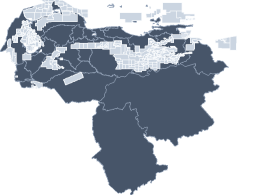
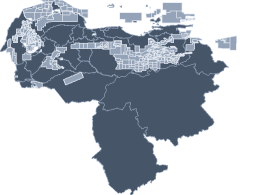
Mapa: colores de la Faja, leyenda propia y el borde negro siempre visible
Ajustes de la capa petrolera pedidos por el cliente, mas los arreglos que
salieron al revisarla.

COLORES

  - las 4 divisiones en tonos oscuros: Boyaca verde, Junin AZUL (antes ambar),
    Ayacucho morado y Carabobo NEGRO (antes rojo, que sobre el verde del
    satelite tiraba a naranja). El azul de Junin no es el de las velas
  - contorno de las divisiones en NEGRO punteado, igual en las cuatro
  - bloques mas oscuros (#1e293b al 40%), con el borde claro: con el relleno
    oscuro esa linea es lo unico que separa un bloque del de al lado

LEYENDA Y ROTULOS

  - fuera los rotulos fijos sobre el mapa (tapaban demasiado). Con ellos se van
    .faja-etq, la clase .mapa-faja-lejos y su umbral de 200 km, que existian
    solo para que no estorbaran
  - la leyenda gana un bloque "Faja Petrolifera del Orinoco" con el cuadrito de
    color de cada division; aparece y desaparece con la capa, y sale igual en la
    foto exportada y en el PNG de la leyenda sola
  - al pasar el mouse, el tooltip del estado dice ademas "Faja - Area Junin"
    cuando el cursor cae dentro de una division. Se recalcula en mousemove: un
    estado puede cruzar dos divisiones o entrar y salir de la Faja sin cambiar

ARREGLOS

  - el borde negro se partia donde pasaba una carretera del mapa base: las
    etiquetas de Google van en labelsPane (466) y la Faja estaba en el 458.
    Ahora el CONTORNO va aparte, en fajaBordePane (467), por encima de ellas; el
[…]

diff --git a/public/js/maquinaria/mapa_index.js b/public/js/maquinaria/mapa_index.js
@@ -252,11 +252,22 @@
         map.createPane('muniNumPane');
         map.getPane('muniNumPane').style.zIndex = 463;
 
-        // Pane de la CAPA PETROLERA (Faja + bloques): encima del satélite y de los estados
-        // (400), y DEBAJO de los municipios (462) y de la tubería (465), que son la información
-        // propia de la empresa y deben quedar siempre legibles.
+        // Panes de la CAPA PETROLERA: encima del satélite y de los estados (400), y DEBAJO de los
+        // municipios (462) y de la tubería (465), que son la información propia de la empresa y
+        // deben quedar siempre legibles.
+        // Son DOS panes para que el orden NO dependa de en qué orden se enciendan las capas: las
+        // áreas de la Faja son el fondo y los bloques van siempre encima.
         map.createPane('fajaPane');
         map.getPane('fajaPane').style.zIndex = 458;
+        map.createPane('bloquesPane');
+        map.getPane('bloquesPane').style.zIndex = 459;
+        // El CONTORNO de las divisiones de la Faja va aparte y MÁS ALTO que las etiquetas de
+        // Google (labelsPane, 466): una carretera pintada encima del borde lo partía y dejaba
+        // trozos sin línea. El relleno se queda abajo (fajaPane) para no tapar los nombres.
+        // Sin eventos: el hover/clic derecho lo siguen recibiendo los bloques de debajo.
+        map.createPane('fajaBordePane');
+        map.getPane('fajaBordePane').style.zIndex = 467;
+        map.getPane('fajaBordePane').style.pointerEvents = 'none';
 
         // Pane propio para la TUBERÍA, POR ENCIMA de los estados (overlayPane, z 400) y de los
         // municipios (muniIntPane, z 462). Esos polígonos hacían bringToFront() al pasar el mouse
@@ -724,9 +735,18 @@
             onEachFeature: function (feature, layer) {
                 var nombre = (feature.properties && feature.properties.shapeName) || 'Estado';
                 layer.bindTooltip(nombre, { sticky: true, direction: 'top', className: 'estado-tooltip' });
+                // Con la Faja encendida el tooltip dice ADEMÁS en qué división está el cursor.
+                // Se recalcula al mover el ratón (no al entrar) porque un estado puede cruzar
+                // dos divisiones — o entrar y salir de la Faja sin cambiar de estado.
+                var ponerTexto = function (e) {
+                    var div = divisionFajaEnPunto(e.latlng);
+                    e.target.setTooltipContent(esc(nombre) +
+                        (div ? '<br><span style="opacity:.85;">Faja · Área ' + esc(div) + '</span>' : ''));
+                };
                 layer.on({
                     // No tocar el estilo si el estado está FIJADO (clic derecho).
-                    mouseover: function (e) { if (!estadosFijados.has(e.target)) e.target.setStyle(estiloEstadoHover); e.target.bringToFront(); },
+                    mouseover: function (e) { if (!estadosFijados.has(e.target)) e.target.setStyle(estiloEstadoHover); e.target.bringToFront(); ponerTexto(e); },
+                    mousemove: ponerTexto,
                     mouseout:  function (e) { if (!estadosFijados.has(e.target)) estados.resetStyle(e.target); },
                     contextmenu: function (e) { menuEstado(e, e.target, nombre); }
                 });
@@ -866,17 +886,41 @@
         // (carga perezosa, igual que los municipios).
         var fajaPoligonalUrl = el.getAttribute('data-faja-poligonal');
         var fajaBloquesUrl   = el.getAttribute('data-faja-bloques');
-        // Un color por DIVISIÓN de la Faja (de oeste a este). Ninguno es azul: ese es el color de
-        // los frentes/velas y se confundirían.
-        var COLOR_AREA_FAJA = { 'BOYACA': '#22c55e', 'JUNIN': '#f59e0b', 'AYACUCHO': '#a855f7', 'CARABOBO': '#ef4444' };
-        function colorAreaFaja(nombre) { return COLOR_AREA_FAJA[normEstado(nombre)] || '#fb923c'; }
-        // Escala (km de la regla) a partir de la cual el rótulo del área se ve desproporcionado
-        // y se encoge por CSS (.mapa-faja-lejos). Lo aplica declutterVelas, con la vista ya asentada.
-        var FAJA_ETQ_LEJOS_KM = 200;
+        // Las 4 divisiones de la Faja, de oeste a este: color (en tonos OSCUROS, para que se lean
+        // sobre el satélite) y nombre con acentos (el geojson los trae sin ellos). Este mismo
+        // orden es el de la leyenda. A pedido del cliente: Junín en azul (antes ámbar) — distinto
+        // al de las velas (#0067b1) para no confundirlos — y Carabobo en negro (antes rojo, que
+        // sobre el verde del satélite tiraba a naranja).
+        // OJO: los mismos colores están en generar_miniaturas_mapa.php (la miniatura del botón).
+        var AREAS_FAJA = [
+            { clave: 'BOYACA',   nombre: 'Boyacá',   color: '#15803d' },
+            { clave: 'JUNIN',    nombre: 'Junín',    color: '#1d4ed8' },
+            { clave: 'AYACUCHO', nombre: 'Ayacucho', color: '#a21caf' },
+            { clave: 'CARABOBO', nombre: 'Carabobo', color: '#000000' }
+        ];
+        var _areaFaja = {};
+        AREAS_FAJA.forEach(function (a) { _areaFaja[a.clave] = a; });
+        function colorAreaFaja(nombre) { var a = _areaFaja[normEstado(nombre)]; return a ? a.color : '#c2410c'; }
+        function nombreAreaFaja(nombre) { var a = _areaFaja[normEstado(nombre)]; return a ? a.nombre : nombreBonito(nombre); }
+        // Divisiones que van en la leyenda: solo cuando la capa está encendida. La comprobación
+        // de capaFaja es por orden: esto se declara ANTES que la capa y la leyenda podría
+        // dibujarse primero.
+        function areasFajaVisibles() { return (capaFaja && capaFaja.on) ? AREAS_FAJA : []; }
+        // Borde NEGRO en las divisiones de la Faja: el relleno ya dice cuál es cada área y así el
+        // contorno se distingue del de los bloques (que va en gris claro). El MISMO trazo lo usan
+        // las dos capas de la Faja: la del relleno y la copia solo-contorno de fajaBordePane.
+        var COLOR_BORDE_FAJA = '#000000';
+        function trazoFaja(extra) {
+            var t = { color: COLOR_BORDE_FAJA, weight: 2, opacity: 0.95, dashArray: '7 5', fill: false };
+            for (var k in extra) t[k] = extra[k];
+            return t;
+        }
         // Bloques en GRIS a propósito: son cientos y en color tapaban el mapa. El color queda para
         // la Faja (4 áreas) y para los municipios.
-        var estiloBloque      = { color: '#e2e8f0', weight: 0.9, opacity: 0.85, fill: true, fillColor: '#64748b', fillOpacity: 0.16 };
-        var estiloBloqueHover = { color: '#ffffff', weight: 2.2, fillOpacity: 0.38 };
+        // El borde se queda CLARO a propósito: con el relleno oscuro es lo único que separa un
+        // bloque del de al lado. La foto lee estos mismos valores de la capa (ver dibujarFaja).
+        var estiloBloque      = { color: '#cbd5e1', weight: 0.9, opacity: 0.85, fill: true, fillColor: '#1e293b', fillOpacity: 0.4 };
+        var estiloBloqueHover = { color: '#ffffff', weight: 2.2, fillOpacity: 0.6 };
 
         // Ficha del bloque al pasar el mouse: nombre, área de la Faja/zona, empresa y superficie.
         // 116 de los 336 bloques (los del Lago y Costa Afuera) vienen SIN nombre propio en la
@@ -925,10 +969,11 @@
             };
             est.alternar = function () {
                 est.on = !est.on;
-                est.sincronizar(); // responde al instante, aunque el geojson aún se esté bajando
+                est.sincronizar();   // responde al instante, aunque el geojson aún se esté bajando
+                actualizarLeyenda(); // la Faja pone/quita su bloque de colores en la leyenda
                 if (!est.on) { if (est.capa) map.removeLayer(est.capa); return; }
                 est.cargar().then(function (ok) {
-                    if (!ok) { est.on = false; est.sincronizar(); return; }
+                    if (!ok) { est.on = false; est.sincronizar(); actualizarLeyenda(); return; }
                     if (est.on) est.capa.addTo(map); // si la apagó mientras cargaba, no se pinta
                 });
             };
@@ -939,26 +984,28 @@
         // interactivas a propósito: son fondo de referencia y, si recibieran el ratón, se
         // comerían el clic derecho (coordenada) y el hover de los bloques que van encima.
         var capaFaja = capaPetrolera(fajaPoligonalUrl, function (gj) {
-            return L.geoJSON(gj, {
+            // Sin rótulos fijos encima del mapa (tapaban demasiado): qué área es cada color lo
+            // dice la LEYENDA, y al pasar el mouse el nombre sale junto al del estado.
+            var relleno = L.geoJSON(gj, {
                 pane: 'fajaPane',
                 interactive: false,
                 style: function (f) {
-                    var c = colorAreaFaja(f && f.properties && f.properties.nombre);
-                    return { color: c, weight: 2, opacity: 0.95, dashArray: '7 5', fill: true, fillColor: c, fillOpacity: 0.16 };
-                },
-                onEachFeature: function (f, layer) {
-                    var p = f.properties || {}, c = colorAreaFaja(p.nombre);
-                    // Rótulo FIJO (solo son 4): sin él no se sabe cuál área es cada color.
-                    layer.bindTooltip('<span style="color:' + c + '">' + esc(nombreBonito(p.nombre || '')) + '</span>',
-                        { permanent: true, direction: 'center', className: 'estado-tooltip faja-etq' });
+                    return trazoFaja({ fill: true, fillColor: colorAreaFaja(f && f.properties && f.properties.nombre), fillOpacity: 0.28 });
                 }
             });
+            // Copia SOLO-CONTORNO en fajaBordePane: es la que garantiza que la línea negra se vea
+            // siempre, aunque encima pase una carretera o un nombre del mapa base. La de abajo
+            // también lo trae para que la FOTO salga igual con una sola pasada (ver dibujarFaja).
+            var borde = L.geoJSON(gj, { pane: 'fajaBordePane', interactive: false, style: function () { return trazoFaja(); } });
+            var grupo = L.layerGroup([relleno, borde]);
+            grupo.areas = relleno; // el "¿en qué división estoy?" mira solo esta (la del contorno es una copia)
+            return grupo;
         }, 'Ver la Faja Petrolífera del Orinoco (Boyacá, Junín, Ayacucho y Carabobo)', 'Ocultar la Faja Petrolífera');
 
         // Bloques petroleros de todo el país, en gris, con su ficha al pasar el mouse.
         var capaBloques = capaPetrolera(fajaBloquesUrl, function (gj) {
             var capa = L.geoJSON(gj, {
-                pane: 'fajaPane',
+                pane: 'bloquesPane',
                 style: function () { return estiloBloque; },
                 onEachFeature: function (f, layer) {
                     layer.bindTooltip(tooltipBloque(f.properties || {}), { sticky: true, direction: 'top', className: 'estado-tooltip' });
@@ -975,6 +1022,17 @@
             return capa;
         }, 'Ver los bloques petroleros', 'Ocultar los bloques petroleros');
 
+        // ¿En qué división de la Faja cae una coordenada? Devuelve su nombre bonito, o null si la
+        // capa está apagada o el punto queda fuera. Lo usa el tooltip del estado.
+        function divisionFajaEnPunto(ll) {
+            if (!capaFaja.on || !capaFaja.capa || !capaFaja.capa.areas) return null;
+            var res = null;
+            capaFaja.capa.areas.eachLayer(function (l) {
+                if (res || !l.getLatLngs || !l.getBounds().contains(ll)) return; // el bounds descarta rápido
+                if (puntoEnLatLngs(ll, l.getLatLngs())) res = l.feature && l.feature.properties && l.feature.properties.nombre;
+            });
+            return res ? nombreAreaFaja(res) : null;
+        }
         if (miniFajaUrl && fajaPoligonalUrl) map.addControl(new (controlMiniCapa(miniFajaUrl, 'Faja', capaFaja.alternar, capaFaja.montar))());
         if (miniBloquesUrl && fajaBloquesUrl) map.addControl(new (controlMiniCapa(miniBloquesUrl, 'Bloques', capaBloques.alternar, capaBloques.montar))());
 
@@ -1899,25 +1957,21 @@
             return fundirVelas(todas, thresh, ocultar);
         }
 
-        var declutterZoom = null, declutterLejos = null, declutterDetalle = null, declutterFajaLejos = null; // último estado, para no recalcular en paneo
+        var declutterZoom = null, declutterLejos = null, declutterDetalle = null; // último estado, para no recalcular en paneo
         function declutterVelas(force) {
             var z = map.getZoom();
             // A MÁS de 300 km (500 km…) el pin se encoge. El nombre del PUNTO es otro umbral
             // (DETALLE_KM): hasta 50 km sale, más lejos solo el proyecto. Ambos por ESCALA.
             var lejos = vistaLejana(), detalle = conDetalle();
-            // Tercer umbral, el de los rótulos de las áreas de la Faja (200 km): de ahí en adelante
-            // el chip tapa el área entera, así que se encoge ANTES que los pines.
-            var fajaLejos = escalaKm() >= FAJA_ETQ_LEJOS_KM;
             // En un PAN puro (mismo zoom y mismos umbrales) las distancias en px entre velas son
             // idénticas (coordenadas globales de Mercator): no hace falta re-agrupar ni re-enlazar
-            // todos los tooltips (evita flicker/jank). Se vigilan LOS TRES umbrales porque al
+            // todos los tooltips (evita flicker/jank). Se vigilan LOS DOS umbrales porque al
             // desplazarse en latitud la escala cambia sin cambiar el zoom. `force` re-ejecuta al
             // crear/recargar velas.
-            if (!force && z === declutterZoom && lejos === declutterLejos && detalle === declutterDetalle && fajaLejos === declutterFajaLejos) return;
-            declutterZoom = z; declutterLejos = lejos; declutterDetalle = detalle; declutterFajaLejos = fajaLejos;
+            if (!force && z === declutterZoom && lejos === declutterLejos && detalle === declutterDetalle) return;
+            declutterZoom = z; declutterLejos = lejos; declutterDetalle = detalle;
             // A más de 300 km el pin se ve exageradamente grande → se encoge por CSS (clase en el mapa).
             el.classList.toggle('mapa-velas-lejos', lejos);
-            el.classList.toggle('mapa-faja-lejos', fajaLejos);
             // Los pines/tuberías de un proyecto oculto se quitan del mapa; los visibles se
             // reponen. Los pines visibles los vuelve a añadir agruparVelas; las tuberías, aquí.
             Object.keys(oleoMap).forEach(function (id) {
@@ -2574,7 +2628,8 @@
             var d = document.getElementById('mapaLeyenda'); if (!d) return;
             var items = proyectosConPuntos();
             var munis = municipiosActivos();
-            if (!items.length && !munis.length) { d.style.display = 'none'; d.innerHTML = ''; return; }
+            var areas = areasFajaVisibles();
+            if (!items.length && !munis.length && !areas.length) { d.style.display = 'none'; d.innerHTML = ''; return; }
             d.style.display = 'block';
 
             // Delegación de clics (una sola vez, sobrevive a los re-render de innerHTML):
@@ -2661,6 +2716,15 @@
                         '<span class="mapa-leyenda-nom">' + esc(nombreBonito(mu.municipio)) + '</span></div>';
                 });
                 html += '</div>';
+            }
+            // ── Faja Petrolífera: qué división es cada color (va al final, como en la foto) ──
+            if (areas.length) {
+                html += '<div class="mapa-leyenda-t mapa-leyenda-t2">Faja Petrolífera del Orinoco</div>';
+                areas.forEach(function (a) {
+                    html += '<div class="mapa-leyenda-row">' +
+                        '<span class="mapa-leyenda-color" style="background:' + a.color + '"></span>' +
+                        '<span class="mapa-leyenda-nom">' + esc(a.nombre) + '</span></div>';
+                });
             }
             html += '</div>';
             d.innerHTML = html;
@@ -3128,8 +3192,8 @@
             k = k || 1;
             // Si el usuario tiene la leyenda RECOGIDA en pantalla, tampoco va en la foto.
             if (legendColapsada && !soloLeyenda) return;
-            var items = proyectosConPuntos(), munis = municipiosActivos();
-            if (!items.length && !munis.length) return;
+            var items = proyectosConPuntos(), munis = municipiosActivos(), areas = areasFajaVisibles();
+            if (!items.length && !munis.length && !areas.length) return;
             var pad = 12 * k, sw = 12 * k, gap = 8 * k;
             var sangriaPt = 19 * k; // = padding-left de .mapa-leyenda-pt en el CSS
             var fT = Math.round(13 * k), fRow = Math.round(13 * k), fPt = Math.round(11 * k), fDate = Math.round(10 * k);
@@ -3178,12 +3242,17 @@
                 else { ctx.font = 'bold ' + fT + 'px Arial, sans-serif'; W = Math.max(W, pad * 2 + ctx.measureText(fi.txt).width + 46 * k); }
             });
             if (munis.length) W = Math.max(W, pad * 2 + muniBlockW);
+            areas.forEach(function (a) {
+                ctx.font = '600 ' + fRow + 'px Arial, sans-serif';
+                W = Math.max(W, pad * 2 + sw + gap + ctx.measureText(a.nombre).width);
+            });
             W = Math.min(W, cap);
 
             // ── Alto total ──
             var H = pad * 2;
             filas.forEach(function (fi) { H += (fi.t === 'titulo') ? titleH : (fi.t === 'pt' ? ptH : rowH); });
             if (munis.length) H += titleH + muniRowsPerCol * rowH;
+            if (areas.length) H += titleH + areas.length * rowH;
             if (soloLeyenda === 'medir') return { W: W, H: H };  // solo se pidió el tamaño
             if (bottomY != null) y = bottomY - H; // anclar abajo (modo "Pantalla")
 
@@ -3250,6 +3319,22 @@
                 munis.forEach(function (mu, i) {
                     var col = Math.floor(i / muniRowsPerCol), rowInCol = i % muniRowsPerCol;
                     muniRow(x + pad + col * (colW + colGap), yy + rowInCol * rowH, mu.num, nombreBonito(mu.municipio), colW);
+                });
+                yy += muniRowsPerCol * rowH;
+            }
+            // ── FAJA: un cuadrito del color de cada división + su nombre (igual que en pantalla) ──
+            if (areas.length) {
+                ctx.textAlign = 'left'; ctx.fillStyle = '#fff'; ctx.font = 'bold ' + fT + 'px Arial, sans-serif';
+                ctx.fillText('FAJA PETROLÍFERA DEL ORINOCO', x + pad, yy + fT);
+                yy += titleH;
+                areas.forEach(function (a, i) {
+                    var cy = yy + i * rowH + (rowH - sw) / 2 - 1 * k;
+                    ctx.fillStyle = a.color; ctx.fillRect(x + pad, cy, sw, sw);
+                    // Borde claro: Carabobo es negro y sin él se perdería contra el panel oscuro.
+                    ctx.strokeStyle = 'rgba(255,255,255,0.85)'; ctx.lineWidth = 1 * k;
+                    ctx.strokeRect(x + pad, cy, sw, sw);
+                    ctx.fillStyle = '#fff'; ctx.font = '600 ' + fRow + 'px Arial, sans-serif';
+                    ctx.fillText(a.nombre, x + pad + sw + gap, yy + i * rowH + fRow + (rowH - fRow) / 2 - 2 * k);
                 });
             }
             ctx.restore();
@@ -3340,31 +3425,41 @@
             if (tipo === 'lbl') return 'https://mt' + (Math.abs(x + y) % 4) + '.google.com/vt/lyrs=h&x=' + x + '&y=' + y + '&z=' + z;
             return 'https://server.arcgisonline.com/ArcGIS/rest/services/World_Imagery/MapServer/tile/' + z + '/' + y + '/' + x;
         }
-        // Rellena anillos de polígono (lat/lng) con color — municipios resaltados y capa petrolera
-        // en la foto. `alpha` = opacidad del relleno (0.42 por defecto, el de los municipios).
-        function rellenarAnillos(ctx, arr, col, k, proj, alpha) {
+        // Rellena anillos de polígono (lat/lng) — municipios resaltados y capa petrolera en la
+        // foto. `alpha` = opacidad del relleno (0.42 por defecto, el de los municipios) y
+        // `colBorde` = color del contorno cuando no es el mismo del relleno (la Faja lo lleva
+        // negro con relleno de color).
+        function rellenarAnillos(ctx, arr, col, k, proj, alpha, colBorde) {
             if (!arr || !arr.length) return;
             if (arr[0] instanceof L.LatLng) {
                 ctx.beginPath();
                 for (var i = 0; i < arr.length; i++) { var p = proj(arr[i]); if (i === 0) ctx.moveTo(p.x, p.y); else ctx.lineTo(p.x, p.y); }
                 ctx.closePath();
                 ctx.globalAlpha = (alpha == null) ? 0.42 : alpha; ctx.fillStyle = col; ctx.fill();
-                ctx.globalAlpha = 0.95; ctx.strokeStyle = col; ctx.lineWidth = 1.4 * k; ctx.stroke();
+                ctx.globalAlpha = 0.95; ctx.strokeStyle = colBorde || col; ctx.lineWidth = 1.4 * k; ctx.stroke();
                 ctx.globalAlpha = 1;
-            } else { for (var j = 0; j < arr.length; j++) rellenarAnillos(ctx, arr[j], col, k, proj, alpha); }
+            } else { for (var j = 0; j < arr.length; j++) rellenarAnillos(ctx, arr[j], col, k, proj, alpha, colBorde); }
         }
         // Capa petrolera en la foto: las MISMAS áreas de la Faja y bloques que se ven en pantalla
         // (cada una solo si su botón está encendido). Va antes que los municipios para quedar
-        // debajo, igual que en pantalla (fajaPane 458 < muniIntPane 462).
+        // debajo, igual que en pantalla (fajaPane 458 / bloquesPane 459 < muniIntPane 462).
+        // El orden del array es el de los panes (áreas al fondo, bloques encima) y los colores se
+        // leen de la PROPIA capa (l.options): así la foto no puede desincronizarse de la pantalla.
         function dibujarFaja(ctx, k, proj) {
             ctx.save(); ctx.lineJoin = 'round';
-            if (capaBloques.on && capaBloques.capa) capaBloques.capa.eachLayer(function (l) {
-                if (l.getLatLngs) rellenarAnillos(ctx, l.getLatLngs(), '#94a3b8', k, proj, 0.18);
-            });
-            if (capaFaja.on && capaFaja.capa) capaFaja.capa.eachLayer(function (l) {
-                var n = l.feature && l.feature.properties && l.feature.properties.nombre;
-                if (l.getLatLngs) rellenarAnillos(ctx, l.getLatLngs(), colorAreaFaja(n), k, proj, 0.16);
-            });
+            var pintar = function (capa) {
+                capa.eachLayer(function (l) {
+                    if (l.eachLayer) { pintar(l); return; }   // la Faja es un grupo (relleno + contorno)
+                    var o = l.options || {};
+                    // La copia solo-contorno se salta: en la foto no hay etiquetas por encima que
+                    // tapen nada y, sin relleno, se pintaría como una mancha negra.
+                    if (!l.getLatLngs || o.fill === false) return;
+                    // El punteado del borde (las áreas lo llevan) también va a la foto, a escala.
+                    ctx.setLineDash(String(o.dashArray || '').split(/[\s,]+/).filter(Boolean).map(function (n) { return n * k; }));
+                    rellenarAnillos(ctx, l.getLatLngs(), o.fillColor || o.color, k, proj, o.fillOpacity, o.color);
+                });
+            };
+            [capaFaja, capaBloques].forEach(function (c) { if (c.on && c.capa) pintar(c.capa); });
             ctx.restore();
         }
         // Municipios ACTIVOS resaltados (color pleno) + su NÚMERO (círculo blanco) en la foto.

diff --git a/public/css/maquinaria/estilos_globales.css b/public/css/maquinaria/estilos_globales.css
@@ -4320,6 +4320,14 @@ body:has(.mapa-page) .main-viewport {
     background: #fff; color: #0f172a; font-size: 11px; font-weight: 800;
     display: inline-flex; align-items: center; justify-content: center; border: 1px solid #0f172a;
 }
+/* Cuadrito de color de cada división de la Faja en la leyenda. Mismo hueco que el número del
+   municipio (18 px) para que las dos secciones alineen sus nombres. Borde claro porque Carabobo
+   es negro y sin él se perdería contra el panel oscuro. */
+.mapa-leyenda-color {
+    flex: none; width: 14px; height: 14px; margin: 0 2px; border-radius: 3px;
+    border: 1px solid rgba(255, 255, 255, 0.85);
+}
+
 /* Número identificador del municipio SOBRE el mapa (círculo transparente, borde+número blancos).
    Se arrastra a mano (habilitarArrastreNumero): cursor:move con !important porque Leaflet pone
    cursor:pointer en .leaflet-interactive, y touch-action:none para que en pantalla táctil el
@@ -4509,25 +4517,6 @@ body:has(.mapa-page) .main-viewport {
 /* Encendido: marco azul de la marca + rótulo sólido (mismo azul que .mapa-fit-btn.activo). */
 .mapa-mini-capa.activo { border-color: #0067b1; box-shadow: 0 0 0 2px rgba(0, 103, 177, 0.35), 0 1px 4px rgba(0, 0, 0, 0.35); }
 .mapa-mini-capa.activo .mapa-mini-capa-lbl { background: #0067b1; }
-
-/* Rótulo FIJO de cada división de la Faja (Boyacá, Junín, Ayacucho, Carabobo): chip pequeño con
-   el nombre en el color de su área. Sin ratón, para no robarle el hover a los bloques de encima. */
-.faja-etq {
-    font-size: 11px !important;
-    font-weight: 800 !important;
-    letter-spacing: 0.4px !important;
-    text-transform: uppercase;
-    padding: 1px 7px !important;
-    pointer-events: none !important;
-    background: rgba(255, 255, 255, 0.92) !important;
-}
-/* Vista alejada (regla ≥ 200 km): el chip tapaba el área entera → letra chica y sin aire.
-   La clase la pone declutterVelas en el contenedor del mapa. */
-.mapa-faja-lejos .faja-etq {
-    font-size: 8px !important;
-    letter-spacing: 0 !important;
-    padding: 0 4px !important;
-}
 
 /* Tooltip con el nombre del estado/municipio/proyecto — compacto (sin espacio vertical de más) */
 .estado-tooltip {

diff --git a/generar_miniaturas_mapa.php b/generar_miniaturas_mapa.php
@@ -210,7 +210,7 @@ $lienzo->guardar($DIR_SALIDA . '/mini-municipios.png');
 // ── 2) y 3) Miniaturas de la capa petrolera: son DOS botones distintos en el mapa ──
 // Los colores tienen que ser los mismos que usa mapa_index.js: cada división de la Faja con su
 // color (COLOR_AREA_FAJA) y los bloques en gris (estiloBloque).
-$COLOR_AREA_FAJA = ['BOYACA' => '#22c55e', 'JUNIN' => '#f59e0b', 'AYACUCHO' => '#a855f7', 'CARABOBO' => '#ef4444'];
+$COLOR_AREA_FAJA = ['BOYACA' => '#15803d', 'JUNIN' => '#1d4ed8', 'AYACUCHO' => '#a21caf', 'CARABOBO' => '#000000'];
 $estados  = cargarGeo($GEO_ESTADOS);
 $fajaPoli = cargarGeo($GEO_FAJA_POLI);
 $fajaBloq = cargarGeo($GEO_FAJA_BLOQ);
@@ -224,12 +224,14 @@ $lienzo = new Lienzo($bbox, $ANCHO, $SS);
 if ($estados) $lienzo->pintar($estados, '#475569', '#94a3b8');   // país de fondo, apagado
 $lienzo->pintar($fajaPoli, function ($f) use ($COLOR_AREA_FAJA) {
     $n = normEstado($f['properties']['nombre'] ?? '');
-    return $COLOR_AREA_FAJA[$n] ?? '#fb923c';
-}, '#ffffff');
+    return $COLOR_AREA_FAJA[$n] ?? '#c2410c';
+}, '#000000');   // borde negro, igual que en el mapa
 $lienzo->guardar($DIR_SALIDA . '/mini-faja.png');
 
 echo "Miniatura de los bloques…\n";
 $lienzo = new Lienzo($bbox, $ANCHO, $SS);
 if ($estados) $lienzo->pintar($estados, '#475569', '#94a3b8');
-$lienzo->pintar($fajaBloq, '#cbd5e1', '#f8fafc');                // bloques en gris, como en el mapa
+// Gris más claro que el del mapa a propósito: aquí el relleno va OPACO sobre el país oscuro,
+// mientras que en el mapa es translúcido sobre el satélite. La impresión final es la misma.
+$lienzo->pintar($fajaBloq, '#94a3b8', '#e2e8f0');
 $lienzo->guardar($DIR_SALIDA . '/mini-bloques.png');
